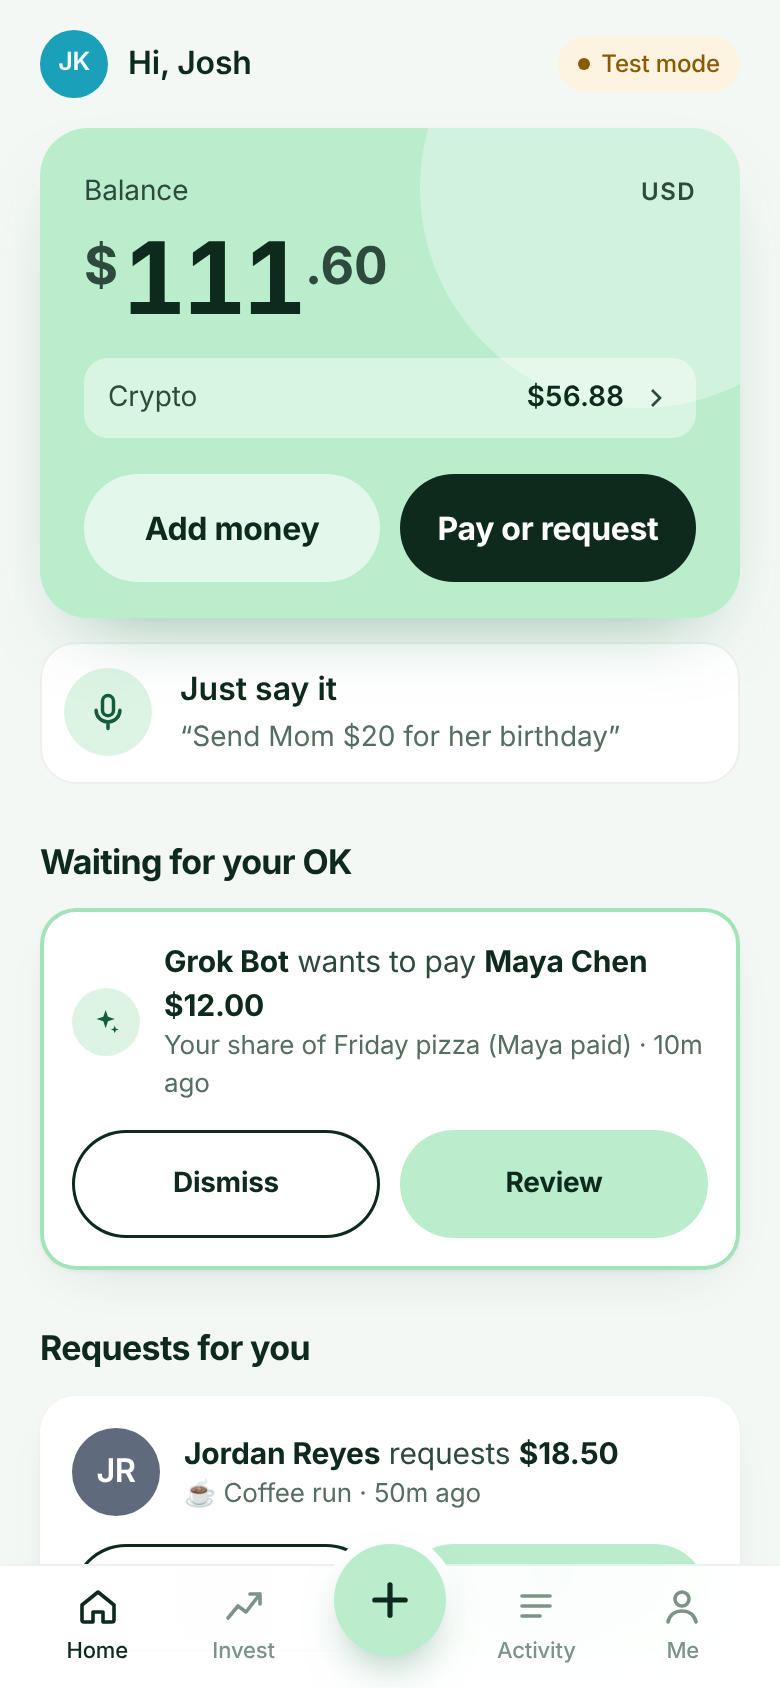
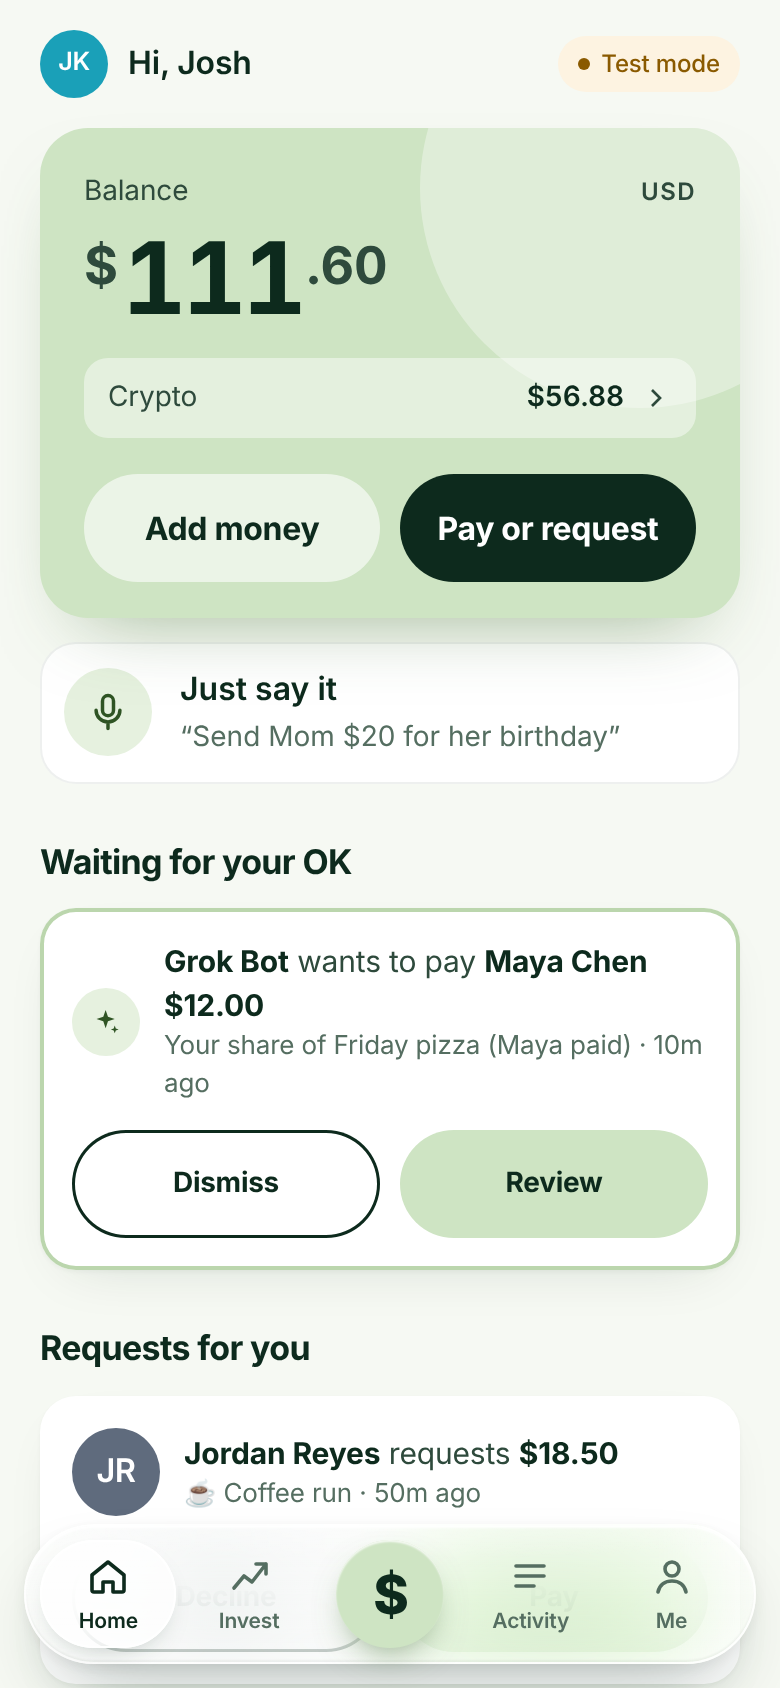
Monyx: theme colour #CEE4C3
Claude-Session: https://claude.ai/code/session_01DsD7rfynugUB2SkpvbYTpp

Changed region(s): [[0.0308, 0.8934, 0.9846, 1.0], [0.4615, 0.9242, 0.5231, 0.955], [0.1231, 0.4005, 0.1538, 0.4313]]

diff --git a/monyx/pay.css b/monyx/pay.css
@@ -419,28 +419,28 @@ details.more .btn-row { margin-top: 10px; }
 /* ════════════════════════════════════════════════════════════════════
    Theme: pastel green, big-payments-app style.
    White and soft-mint surfaces, rounded cards, pill buttons, bold tight
-   headings. Pastel green (#B9EDCB) fills primary buttons and the balance
-   card with dark green-black text on top (13:1). Deep green #1B7347 is the
+   headings. Pastel green (#CEE4C3) fills primary buttons and the balance
+   card with dark green-black text on top (13:1). Deep green #3E6B30 is the
    only green used for text and icons on white (5.6:1). Light only.
    ════════════════════════════════════════════════════════════════════ */
 :root, :root:root {
   color-scheme: light;
-  --bg: #F4F8F5; --card: #ffffff; --card2: #EAF4ED; --sheet: #F4F8F5;
+  --bg: #F6F9F3; --card: #ffffff; --card2: #EDF4E8; --sheet: #F6F9F3;
   --ink: #0D2A1D; --ink2: #2E4A3C; --mute: #556E61; --faint: #7D9387;
   --line: rgba(13, 42, 29, .07); --line2: rgba(13, 42, 29, .14);
-  --pastel: #B9EDCB; --pastel-2: #A3E3B9; --mint: #DDF4E5;
-  --brand: #1B7347; --brand-hover: #155C38; --brand-soft: #DDF4E5; --brand-ink: #155C38;
-  --green: #1B7347; --red: #B3261E; --amber: #8A5A00; --amber-soft: #FDF3E1;
-  --sk: #E3EEE7; --radius: 24px;
+  --pastel: #CEE4C3; --pastel-2: #BBD6AD; --mint: #E6F1DF;
+  --brand: #3E6B30; --brand-hover: #2F5424; --brand-soft: #E6F1DF; --brand-ink: #2F5424;
+  --green: #3E6B30; --red: #B3261E; --amber: #8A5A00; --amber-soft: #FDF3E1;
+  --sk: #E4EDDD; --radius: 24px;
   --shadow: 0 1px 2px rgba(13, 42, 29, .04), 0 10px 30px -16px rgba(13, 42, 29, .18);
 }
 @media (prefers-color-scheme: dark) {
   :root, :root:root {
-    --bg: #F4F8F5; --card: #ffffff; --card2: #EAF4ED; --sheet: #F4F8F5;
+    --bg: #F6F9F3; --card: #ffffff; --card2: #EDF4E8; --sheet: #F6F9F3;
     --ink: #0D2A1D; --ink2: #2E4A3C; --mute: #556E61; --faint: #7D9387;
     --line: rgba(13, 42, 29, .07); --line2: rgba(13, 42, 29, .14);
-    --brand: #1B7347; --brand-hover: #155C38; --brand-soft: #DDF4E5; --brand-ink: #155C38;
-    --green: #1B7347; --red: #B3261E; --amber: #8A5A00; --amber-soft: #FDF3E1; --sk: #E3EEE7;
+    --brand: #3E6B30; --brand-hover: #2F5424; --brand-soft: #E6F1DF; --brand-ink: #2F5424;
+    --green: #3E6B30; --red: #B3261E; --amber: #8A5A00; --amber-soft: #FDF3E1; --sk: #E4EDDD;
   }
 }
 html, body { background: var(--bg); }
@@ -468,7 +468,7 @@ h3 { font-size: 17px; font-weight: 700; letter-spacing: -.02em; }
 .req.draft { box-shadow: inset 0 0 0 2px var(--pastel-2), var(--shadow); }
 
 /* Balance card: a pastel green panel with dark text and a soft circle. */
-.balance { background: var(--pastel); color: var(--ink); box-shadow: 0 18px 40px -22px rgba(27, 115, 71, .55); }
+.balance { background: var(--pastel); color: var(--ink); box-shadow: 0 18px 40px -22px rgba(62, 107, 48, .55); }
 .balance::after { background: rgba(255, 255, 255, .35); }
 .balance .label { color: var(--ink2); }
 .balance .label .cur, .balance .amount small, .balance .amount .cents { color: var(--ink2); }
@@ -483,7 +483,7 @@ h3 { font-size: 17px; font-weight: 700; letter-spacing: -.02em; }
 /* Tab bar: white with a pastel round pay button. */
 .tabbar { background: rgba(255, 255, 255, .94); }
 .tabbar a.on { color: var(--ink); }
-.tabbar .tab-pay, .tabbar .tab-pay.on { background: var(--pastel); color: var(--ink); box-shadow: 0 10px 24px -10px rgba(27, 115, 71, .6), 0 0 0 5px #fff; }
+.tabbar .tab-pay, .tabbar .tab-pay.on { background: var(--pastel); color: var(--ink); box-shadow: 0 10px 24px -10px rgba(62, 107, 48, .6), 0 0 0 5px #fff; }
 
 /* Success tick and voice orb in the same green family. */
 .tick { background: var(--pastel); }
@@ -513,7 +513,7 @@ h3 { font-size: 17px; font-weight: 700; letter-spacing: -.02em; }
 .tabbar a { height: 54px; align-content: center; border-radius: 999px; color: var(--mute); font-size: 10.5px; font-weight: 600; transition: background .2s, color .2s, box-shadow .2s; }
 .tabbar a.on { color: var(--ink); background: rgba(255, 255, 255, .7); box-shadow: inset 0 0 0 1px rgba(255, 255, 255, .95), 0 6px 14px -8px rgba(13, 42, 29, .35); }
 .tabbar a:active { transform: scale(.94); }
-.tabbar .tab-pay, .tabbar .tab-pay.on { border-radius: 50%; width: 54px; height: 54px; margin: 0; justify-self: center; background: var(--pastel); color: var(--ink); box-shadow: inset 0 1px 1px rgba(255, 255, 255, .8), 0 8px 18px -8px rgba(27, 115, 71, .7); }
+.tabbar .tab-pay, .tabbar .tab-pay.on { border-radius: 50%; width: 54px; height: 54px; margin: 0; justify-self: center; background: var(--pastel); color: var(--ink); box-shadow: inset 0 1px 1px rgba(255, 255, 255, .8), 0 8px 18px -8px rgba(62, 107, 48, .7); }
 .tabbar .tab-pay.on { background: var(--ink); color: var(--pastel); }
 .tabbar .tab-pay i { font-style: normal; font-weight: 800; font-size: 27px; line-height: 1; letter-spacing: -.04em; }
 .tabbar .tab-pay span { display: none; }

diff --git a/monyx/about/index.html b/monyx/about/index.html
@@ -5,7 +5,7 @@
 <meta name="viewport" content="width=device-width, initial-scale=1, viewport-fit=cover">
 <meta http-equiv="Content-Security-Policy" content="default-src 'self'; script-src 'self'; style-src 'self' 'unsafe-inline' https://fonts.googleapis.com; font-src https://fonts.gstatic.com; img-src 'self' data:; connect-src 'self'; object-src 'none'; base-uri 'self'; form-action 'self'">
 <meta name="referrer" content="strict-origin-when-cross-origin">
-<meta name="theme-color" content="#F4F8F5">
+<meta name="theme-color" content="#F6F9F3">
 <meta name="color-scheme" content="light">
 <title>About · Monyx</title>
 <meta name="description" content="Monyx is the money app you can talk to. Say who to pay, check it, tap once. Built by Josh Koppanalil and Andrew Hu for the UBC 2026 hackathon.">
@@ -735,12 +735,12 @@ footer a:hover { color: var(--cta); }
 <style>
 /* Theme: pastel green, big-payments-app style. Overrides the drafted look above. */
 :root {
-  --bg: #ffffff; --bg2: #F4F8F5; --ice: #DDF4E5; --mid: #B9EDCB; --accent: #1B7347; --mint: #DDF4E5; --sage: #B9EDCB;
-  --cta: #B9EDCB; --cta-2: #A3E3B9; --ink: #0D2A1D; --ink2: #2E4A3C; --mute: #556E61; --faint: #6B8276;
-  --line: rgba(13, 42, 29, .08); --line2: rgba(13, 42, 29, .16); --ok: #1B7347; --ok-dim: #DDF4E5;
+  --bg: #ffffff; --bg2: #F6F9F3; --ice: #E6F1DF; --mid: #CEE4C3; --accent: #3E6B30; --mint: #E6F1DF; --sage: #CEE4C3;
+  --cta: #CEE4C3; --cta-2: #BBD6AD; --ink: #0D2A1D; --ink2: #2E4A3C; --mute: #556E61; --faint: #6B8276;
+  --line: rgba(13, 42, 29, .08); --line2: rgba(13, 42, 29, .16); --ok: #3E6B30; --ok-dim: #E6F1DF;
 }
 body::before { display: none; }
-.hero { background: linear-gradient(180deg, #EEF8F1 0%, #fff 100%); }
+.hero { background: linear-gradient(180deg, #EFF5EA 0%, #fff 100%); }
 ::selection { background: var(--mid); color: var(--ink); }
 :focus-visible { outline: 2px solid var(--ink); outline-offset: 3px; border-radius: 8px; }
 .mk rect { fill: var(--mid); } .mk path { stroke: var(--ink); }
@@ -849,7 +849,7 @@ footer, footer .links { font-family: var(--font); }
         <div class="phone-shadow" aria-hidden="true"></div>
         <div class="phone-3d" id="phone-3d">
           <figure class="phone">
-            <img src="wallet.png?v=2" width="390" height="844" alt="The Monyx home screen: a dollar balance, a Just say it voice button, a payment Grok Bot drafted waiting for your OK, and a request from Jordan.">
+            <img src="wallet.png?v=3" width="390" height="844" alt="The Monyx home screen: a dollar balance, a Just say it voice button, a payment Grok Bot drafted waiting for your OK, and a request from Jordan.">
           </figure>
         </div>
         <div class="hand-callout" aria-hidden="true">

diff --git a/monyx/page.css b/monyx/page.css
@@ -95,8 +95,8 @@ pre { background: var(--card); box-shadow: inset 0 0 0 1px var(--line); border-r
 .updated { color: var(--faint); font-size: 14px; }
 
 /* ── Theme: pastel green, big-payments-app style (matches the app) ── */
-:root, :root:root { color-scheme: light; --bg: #fff; --card: #fff; --card2: #EAF4ED; --ink: #0D2A1D; --ink2: #2E4A3C; --mute: #556E61; --faint: #7D9387; --line: rgba(13,42,29,.08); --line2: rgba(13,42,29,.14); --brand: #1B7347; --brand-ink: #155C38; --brand-soft: #DDF4E5; --green: #1B7347; --amber: #8A5A00; --amber-soft: #FDF3E1; --pastel: #B9EDCB; --pastel-2: #A3E3B9; --mint: #EEF8F1; }
-@media (prefers-color-scheme: dark) { :root, :root:root { --bg: #fff; --card: #fff; --card2: #EAF4ED; --ink: #0D2A1D; --ink2: #2E4A3C; --mute: #556E61; --faint: #7D9387; --line: rgba(13,42,29,.08); --line2: rgba(13,42,29,.14); --brand: #1B7347; --brand-ink: #155C38; --brand-soft: #DDF4E5; --green: #1B7347; --amber: #8A5A00; --amber-soft: #FDF3E1; } }
+:root, :root:root { color-scheme: light; --bg: #fff; --card: #fff; --card2: #EDF4E8; --ink: #0D2A1D; --ink2: #2E4A3C; --mute: #556E61; --faint: #7D9387; --line: rgba(13,42,29,.08); --line2: rgba(13,42,29,.14); --brand: #3E6B30; --brand-ink: #2F5424; --brand-soft: #E6F1DF; --green: #3E6B30; --amber: #8A5A00; --amber-soft: #FDF3E1; --pastel: #CEE4C3; --pastel-2: #BBD6AD; --mint: #EFF5EA; }
+@media (prefers-color-scheme: dark) { :root, :root:root { --bg: #fff; --card: #fff; --card2: #EDF4E8; --ink: #0D2A1D; --ink2: #2E4A3C; --mute: #556E61; --faint: #7D9387; --line: rgba(13,42,29,.08); --line2: rgba(13,42,29,.14); --brand: #3E6B30; --brand-ink: #2F5424; --brand-soft: #E6F1DF; --green: #3E6B30; --amber: #8A5A00; --amber-soft: #FDF3E1; } }
 ::selection { background: var(--pastel); color: var(--ink); }
 .mk rect { fill: var(--pastel); } .mk path { stroke: var(--ink); }
 header { background: rgba(255,255,255,.92); }

diff --git a/monyx/index.html b/monyx/index.html
@@ -5,7 +5,7 @@
 <meta http-equiv="Content-Security-Policy" content="default-src 'self'; script-src 'self'; style-src 'self' 'unsafe-inline' https://fonts.googleapis.com; font-src https://fonts.gstatic.com; img-src 'self' data: blob: https://nvfxdzxdlizznrknmunl.supabase.co; manifest-src 'self'; media-src 'self' data: blob:; connect-src 'self' https://nvfxdzxdlizznrknmunl.supabase.co https://api.devnet.solana.com https://*.quiknode.pro https://*.helius-rpc.com; object-src 'none'; base-uri 'self'; form-action 'self'">
 <meta name="referrer" content="strict-origin-when-cross-origin">
 <meta name="viewport" content="width=device-width, initial-scale=1, viewport-fit=cover">
-<meta name="theme-color" content="#F4F8F5">
+<meta name="theme-color" content="#F6F9F3">
 <meta name="color-scheme" content="light">
 <title>Monyx: just say who to pay</title>
 <meta name="description" content="Monyx is the money app you can talk to. Say who to pay and how much, then tap to confirm. Split bills, request money and hear when you get paid. No fees. Currently in test mode.">
@@ -26,7 +26,7 @@
 <link rel="preconnect" href="https://fonts.googleapis.com">
 <link rel="preconnect" href="https://fonts.gstatic.com" crossorigin>
 <link href="https://fonts.googleapis.com/css2?family=Caveat:wght@500;600;700&family=Geist:wght@400;500;600;650;700&family=JetBrains+Mono:wght@400;500;600&display=swap" rel="stylesheet">
-<link rel="stylesheet" href="pay.css?v=15">
+<link rel="stylesheet" href="pay.css?v=16">
 </head>
 <body>
 <div class="shell">

diff --git a/monyx/pro/styles.css b/monyx/pro/styles.css
@@ -288,6 +288,6 @@ dialog menu { display: flex; justify-content: flex-end; gap: 8px; padding: 0; ma
 }
 
 /* ── Theme: pastel green (matches the app) ── */
-:root, :root:root { color-scheme: light; --ink: #F4F8F5; --ink2: #fff; --ink3: #EAF4ED; --line: rgba(13,42,29,.08); --line2: rgba(13,42,29,.15); --bone: #0D2A1D; --bone2: #2E4A3C; --mute: #556E61; --dim: #7D9387; --sig: #1B7347; --sig-ink: #155C38; --in: #1B7347; --bad: #B3261E; --tok: #7D9387; }
-@media (prefers-color-scheme: dark) { :root, :root:root { --ink: #F4F8F5; --ink2: #fff; --ink3: #EAF4ED; --line: rgba(13,42,29,.08); --line2: rgba(13,42,29,.15); --bone: #0D2A1D; --bone2: #2E4A3C; --mute: #556E61; --dim: #7D9387; --sig: #1B7347; --sig-ink: #155C38; --in: #1B7347; --bad: #B3261E; --tok: #7D9387; } }
-::selection { background: #B9EDCB; color: #0D2A1D; }
+:root, :root:root { color-scheme: light; --ink: #F6F9F3; --ink2: #fff; --ink3: #EDF4E8; --line: rgba(13,42,29,.08); --line2: rgba(13,42,29,.15); --bone: #0D2A1D; --bone2: #2E4A3C; --mute: #556E61; --dim: #7D9387; --sig: #3E6B30; --sig-ink: #2F5424; --in: #3E6B30; --bad: #B3261E; --tok: #7D9387; }
+@media (prefers-color-scheme: dark) { :root, :root:root { --ink: #F6F9F3; --ink2: #fff; --ink3: #EDF4E8; --line: rgba(13,42,29,.08); --line2: rgba(13,42,29,.15); --bone: #0D2A1D; --bone2: #2E4A3C; --mute: #556E61; --dim: #7D9387; --sig: #3E6B30; --sig-ink: #2F5424; --in: #3E6B30; --bad: #B3261E; --tok: #7D9387; } }
+::selection { background: #CEE4C3; color: #0D2A1D; }

diff --git a/monyx/documentation/index.html b/monyx/documentation/index.html
@@ -5,7 +5,7 @@
 <meta http-equiv="Content-Security-Policy" content="default-src 'self'; script-src 'self'; style-src 'self' 'unsafe-inline' https://fonts.googleapis.com; font-src https://fonts.gstatic.com; img-src 'self' data:; connect-src 'self'; object-src 'none'; base-uri 'self'; form-action 'self'">
 <meta name="referrer" content="strict-origin-when-cross-origin">
 <meta name="viewport" content="width=device-width, initial-scale=1, viewport-fit=cover">
-<meta name="theme-color" content="#F4F8F5">
+<meta name="theme-color" content="#F6F9F3">
 <meta name="color-scheme" content="light">
 <title>How Monyx works</title>
 <meta name="description" content="A plain-language guide to Monyx: your account, sending and requesting money, splitting bills, buying crypto, and what keeps it safe.">
@@ -14,7 +14,7 @@
 <link rel="preconnect" href="https://fonts.googleapis.com">
 <link rel="preconnect" href="https://fonts.gstatic.com" crossorigin>
 <link href="https://fonts.googleapis.com/css2?family=Caveat:wght@600&family=Geist:wght@400;500;600;650;700&family=JetBrains+Mono:wght@400;500;600&display=swap" rel="stylesheet">
-<link rel="stylesheet" href="../page.css?v=3">
+<link rel="stylesheet" href="../page.css?v=4">
 </head>
 <body>
 <header><div class="bar">

diff --git a/monyx/grok-bot/index.html b/monyx/grok-bot/index.html
@@ -5,7 +5,7 @@
 <meta name="viewport" content="width=device-width, initial-scale=1, viewport-fit=cover">
 <meta http-equiv="Content-Security-Policy" content="default-src 'self'; script-src 'self'; style-src 'self' 'unsafe-inline' https://fonts.googleapis.com; font-src https://fonts.gstatic.com; img-src 'self' data:; connect-src 'self'; base-uri 'self'; form-action 'self'">
 <meta name="referrer" content="strict-origin-when-cross-origin">
-<meta name="theme-color" content="#F4F8F5">
+<meta name="theme-color" content="#F6F9F3">
 <meta name="color-scheme" content="light">
 <title>Monyx for Grok Bot</title>
 <meta name="description" content="Connect Grok Bot to Monyx so it can ask friends for money, track who owes what, and draft payments you approve with a tap.">
@@ -13,7 +13,7 @@
 <link rel="preconnect" href="https://fonts.googleapis.com">
 <link rel="preconnect" href="https://fonts.gstatic.com" crossorigin>
 <link href="https://fonts.googleapis.com/css2?family=Caveat:wght@600&family=Geist:wght@400;500;600;650;700&family=JetBrains+Mono:wght@400;500;600&display=swap" rel="stylesheet">
-<link rel="stylesheet" href="../page.css?v=3">
+<link rel="stylesheet" href="../page.css?v=4">
 </head>
 <body>
 <header><div class="bar">

diff --git a/monyx/pro/index.html b/monyx/pro/index.html
@@ -4,7 +4,7 @@
 <meta charset="utf-8">
 <meta http-equiv="Content-Security-Policy" content="default-src 'self'; script-src 'self'; style-src 'self' 'unsafe-inline' https://fonts.googleapis.com; font-src https://fonts.gstatic.com; img-src 'self' data: blob: https:; connect-src 'self' https: wss:; object-src 'none'; base-uri 'self'; form-action 'self'">
 <meta name="referrer" content="strict-origin-when-cross-origin">
-<meta name="theme-color" content="#F4F8F5">
+<meta name="theme-color" content="#F6F9F3">
 <meta name="color-scheme" content="light">
 <meta name="viewport" content="width=device-width, initial-scale=1">
 <title>Monyx Pro: wallet tracer and agent API market</title>
@@ -13,7 +13,7 @@
 <link rel="preconnect" href="https://fonts.googleapis.com">
 <link rel="preconnect" href="https://fonts.gstatic.com" crossorigin>
 <link href="https://fonts.googleapis.com/css2?family=Caveat:wght@600&family=Geist:wght@400;500;600;650;700&family=JetBrains+Mono:wght@400;500;600&display=swap" rel="stylesheet">
-<link rel="stylesheet" href="styles.css?v=3">
+<link rel="stylesheet" href="styles.css?v=4">
 <link rel="alternate" type="text/plain" href="../llms.txt" title="Agent instructions">
 </head>
 <body>

diff --git a/monyx/privacy/index.html b/monyx/privacy/index.html
@@ -5,7 +5,7 @@
 <meta name="viewport" content="width=device-width, initial-scale=1, viewport-fit=cover">
 <meta http-equiv="Content-Security-Policy" content="default-src 'self'; script-src 'self'; style-src 'self' 'unsafe-inline' https://fonts.googleapis.com; font-src https://fonts.gstatic.com; img-src 'self' data:; connect-src 'self'; base-uri 'self'; form-action 'self'">
 <meta name="referrer" content="strict-origin-when-cross-origin">
-<meta name="theme-color" content="#F4F8F5">
+<meta name="theme-color" content="#F6F9F3">
 <meta name="color-scheme" content="light">
 <title>Privacy · Monyx</title>
 <meta name="description" content="What Monyx collects, what it never has, and where your data goes, including voice.">
@@ -13,7 +13,7 @@
 <link rel="preconnect" href="https://fonts.googleapis.com">
 <link rel="preconnect" href="https://fonts.gstatic.com" crossorigin>
 <link href="https://fonts.googleapis.com/css2?family=Caveat:wght@600&family=Geist:wght@400;500;600;650;700&family=JetBrains+Mono:wght@400;500;600&display=swap" rel="stylesheet">
-<link rel="stylesheet" href="../page.css?v=3">
+<link rel="stylesheet" href="../page.css?v=4">
 </head>
 <body>
 <header><div class="bar">

diff --git a/monyx/terms/index.html b/monyx/terms/index.html
@@ -5,7 +5,7 @@
 <meta name="viewport" content="width=device-width, initial-scale=1, viewport-fit=cover">
 <meta http-equiv="Content-Security-Policy" content="default-src 'self'; script-src 'self'; style-src 'self' 'unsafe-inline' https://fonts.googleapis.com; font-src https://fonts.gstatic.com; img-src 'self' data:; connect-src 'self'; base-uri 'self'; form-action 'self'">
 <meta name="referrer" content="strict-origin-when-cross-origin">
-<meta name="theme-color" content="#F4F8F5">
+<meta name="theme-color" content="#F6F9F3">
 <meta name="color-scheme" content="light">
 <title>Terms · Monyx</title>
 <meta name="description" content="The ground rules for using Monyx while it is in test mode.">
@@ -13,7 +13,7 @@
 <link rel="preconnect" href="https://fonts.googleapis.com">
 <link rel="preconnect" href="https://fonts.gstatic.com" crossorigin>
 <link href="https://fonts.googleapis.com/css2?family=Caveat:wght@600&family=Geist:wght@400;500;600;650;700&family=JetBrains+Mono:wght@400;500;600&display=swap" rel="stylesheet">
-<link rel="stylesheet" href="../page.css?v=3">
+<link rel="stylesheet" href="../page.css?v=4">
 </head>
 <body>
 <header><div class="bar">

diff --git a/monyx/404.html b/monyx/404.html
@@ -5,7 +5,7 @@
 <meta name="viewport" content="width=device-width, initial-scale=1, viewport-fit=cover">
 <meta http-equiv="Content-Security-Policy" content="default-src 'self'; script-src 'self'; style-src 'self' 'unsafe-inline' https://fonts.googleapis.com; font-src https://fonts.gstatic.com; img-src 'self' data:; connect-src 'self'; base-uri 'self'; form-action 'self'">
 <meta name="referrer" content="strict-origin-when-cross-origin">
-<meta name="theme-color" content="#F4F8F5">
+<meta name="theme-color" content="#F6F9F3">
 <meta name="color-scheme" content="light">
 <title>Page not found · Monyx</title>
 <meta name="description" content="This page does not exist.">
@@ -13,7 +13,7 @@
 <link rel="preconnect" href="https://fonts.googleapis.com">
 <link rel="preconnect" href="https://fonts.gstatic.com" crossorigin>
 <link href="https://fonts.googleapis.com/css2?family=Caveat:wght@600&family=Geist:wght@400;500;600;650;700&family=JetBrains+Mono:wght@400;500;600&display=swap" rel="stylesheet">
-<link rel="stylesheet" href="/page.css?v=3">
+<link rel="stylesheet" href="/page.css?v=4">
 </head>
 <body>
 <header><div class="bar">
